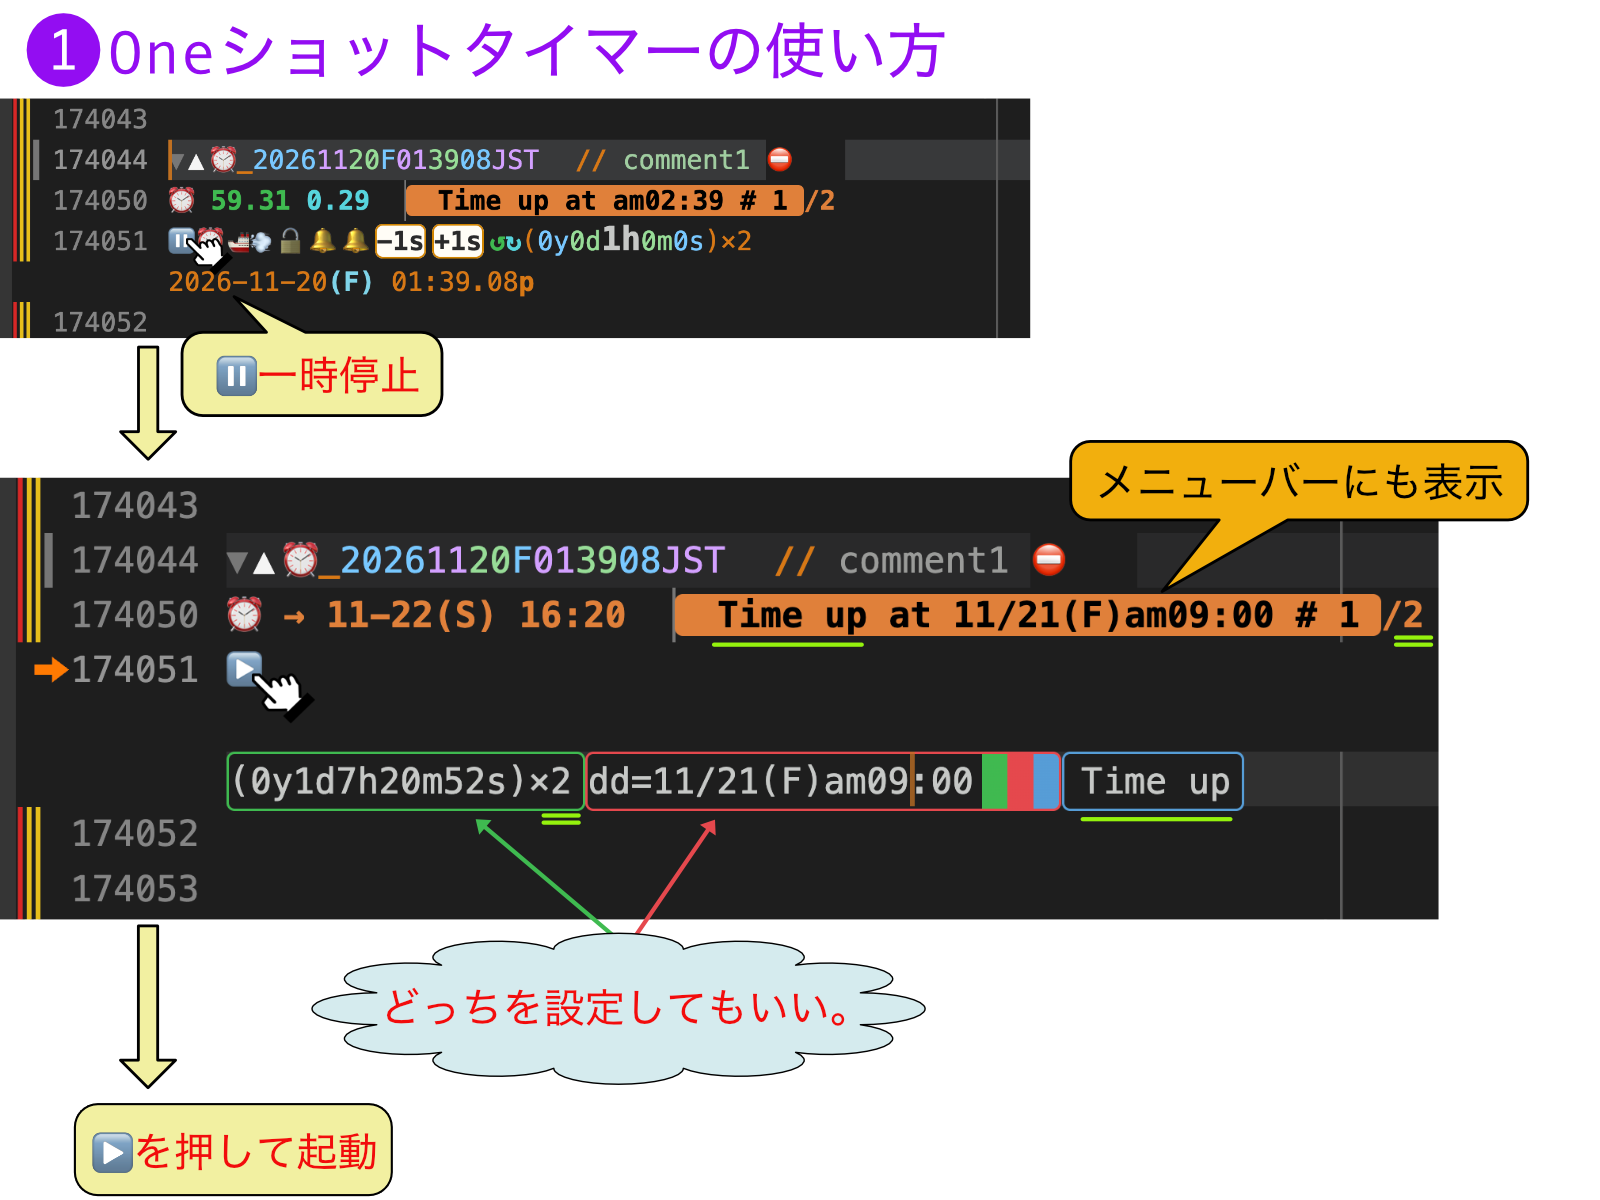
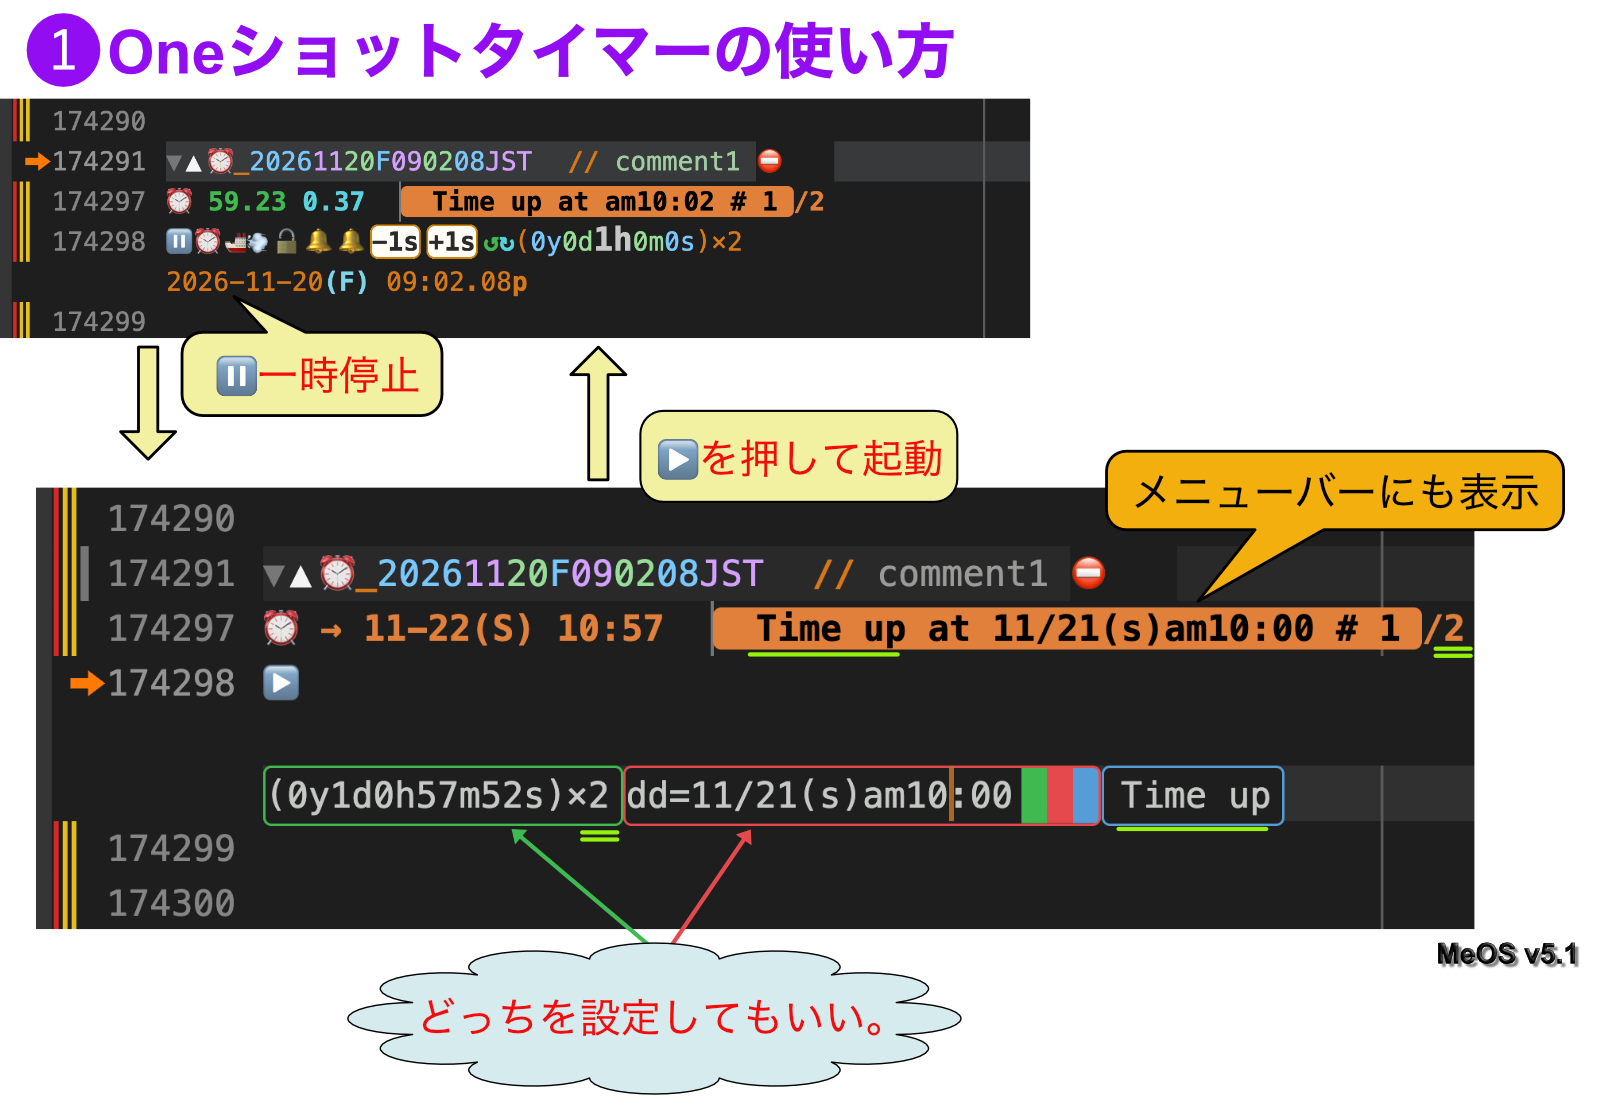
v5.1.839 ワンショットタイマーのヒーロー画像を ver3 に差し替え(曜日 11/21(s)・▶で上へ戻る矢印)

diff --git a/README.md b/README.md
@@ -278,7 +278,7 @@ already in the red box. Change either the length or the moment — MeOS works ou
 The old way still works: put the cursor on the ⏰ line and edit `↺↻(…)` or `dd=…` in Raw view by hand.
 
 <p align="center">
-  <img src="https://raw.githubusercontent.com/LAIxai/MeOS/main/media/hero/v5.1-oneshot-timer.png" alt="How to use a one-shot timer - press pause on a running one-hour timer; the line clears down to the play button and three boxes: the length (0y1d7h20m52s)x2 in green, dd=11/21(F)am09:00 in red and the title Time up in blue, which the menu bar also shows; set either the length or the end time, then press play to start" width="80%"><br>
+  <img src="https://raw.githubusercontent.com/LAIxai/MeOS/main/media/hero/v5.1-oneshot-timer.png" alt="How to use a one-shot timer - press pause on a running one-hour timer; the line clears down to the play button and three boxes: the length (0y1d0h57m52s)x2 in green, dd=11/21(s)am10:00 in red and the title Time up in blue, which the menu bar also shows; set either the length or the end time, then press play to start again" width="80%"><br>
   <sub><b>NEW in v5.1 — a one-shot timer, paused.</b> ⏸ leaves ▶ and three boxes: the length, the end time, the title. Set either the length or the end time, then press ▶.</sub>
 </p>
 

diff --git a/CHANGELOG.md b/CHANGELOG.md
@@ -4,7 +4,7 @@ _Detailed per-version development notes. Moved here from README to keep the READ
 
 ## v5.1 era (2026-11 →)
 
-### v5.1.838 (2026-11-19) — the first public v5.1
+### v5.1.839 (2026-11-19) — the first public v5.1
 - **🔐 Encrypt a membrane.** **Encrypt Me** locks a membrane with a passphrase. The file only ever holds the ciphertext; the plain text lives on the screen while it is unlocked, and Raw mode shows the ciphertext.
 - **🙈 A blind over what you unlocked.** An unlocked membrane stays covered by a white blind — only the line with the cursor shows. The 🙈 on its first line shows everything. After a short time away, the whole membrane is covered, the cursor line too.
 - **🪑 The away timer.** 🪑 3 minutes, 🛋 15, 💺 30 (each 3–60): when nobody touches the Mac that long, MeOS saves, locks every 🔐 membrane and quits VSCodium. Your clocks keep ringing from wGATE. Before it closes, the pointer is parked on the valley of the M in the big mGATE logo under the menu bar — come back, wake the Mac and click without moving the mouse, and MeOS opens again.
